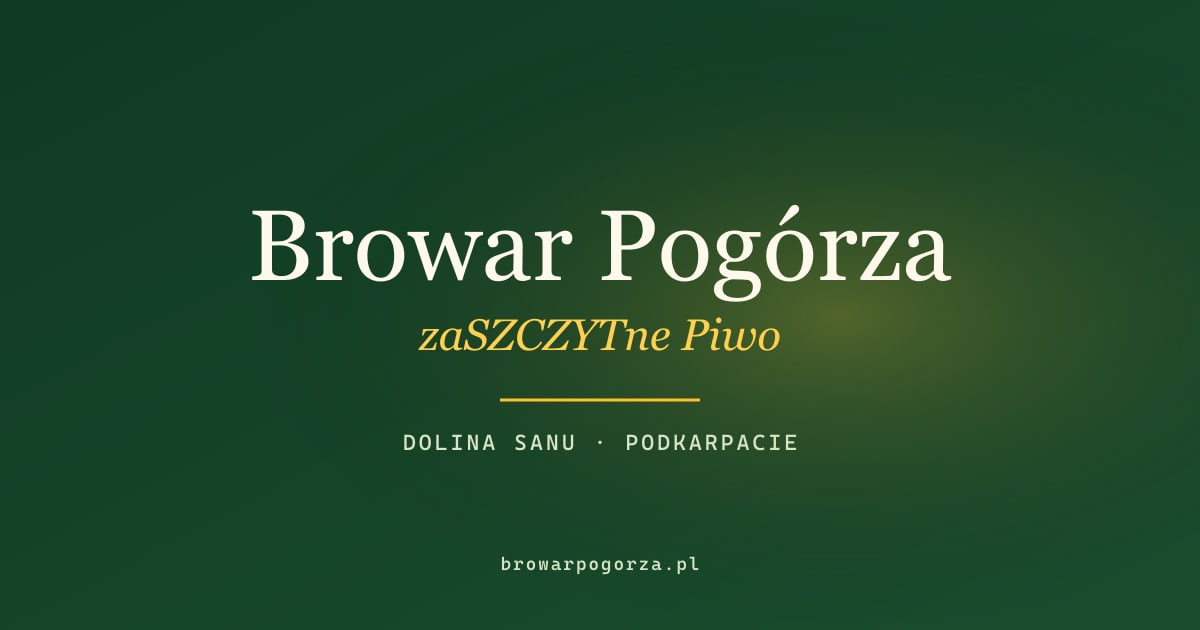
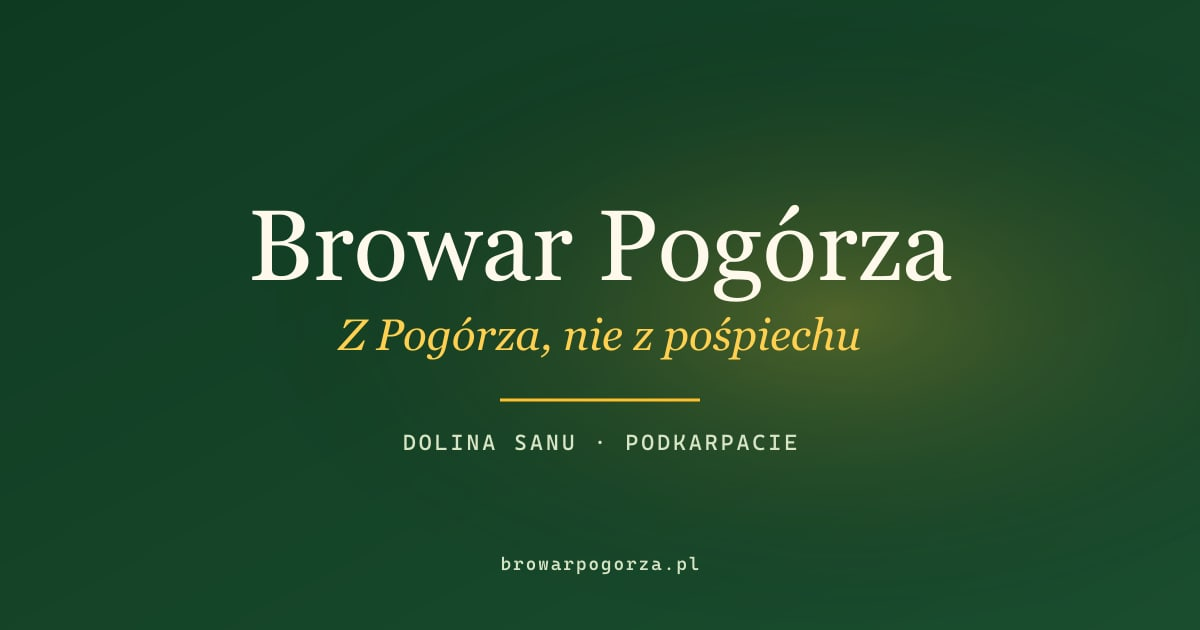
Replace tagline with 'Z Pogorza, nie z pospiechu'

Changed region(s): [[0.2775, 0.4825, 0.74, 0.573]]

diff --git a/index.html b/index.html
@@ -20,7 +20,7 @@
         gtag('config', 'G-BE132JG40J');
     </script>
 
-    <title>Browar Pogórza – zaSZCZYTne Piwo z doliny Sanu | Podkarpacie</title>
+    <title>Browar Pogórza – Z Pogórza, nie z pośpiechu | Podkarpacie</title>
     <meta name="description" content="Rzemieślniczy browar z Pogórza Dynowsko-Przemyskiego — naturalne piwa z polskich składników. Hills Pils, Wheat Valley, Dark Sky, Coffee Fes.">
     <meta name="robots" content="index, follow, max-snippet:-1, max-image-preview:large, max-video-preview:-1">
     <meta name="googlebot" content="index, follow">
@@ -38,7 +38,7 @@
     <!-- Open Graph + Twitter -->
     <meta property="og:site_name" content="Browar Pogórza">
     <meta property="og:locale" content="pl_PL">
-    <meta property="og:title" content="Browar Pogórza – zaSZCZYTne Piwo">
+    <meta property="og:title" content="Browar Pogórza – Z Pogórza, nie z pośpiechu">
     <meta property="og:description" content="Lokalny browar rzemieślniczy z doliny Sanu. Naturalne składniki, tradycyjne metody, soczyste piwa.">
     <meta property="og:type" content="website">
     <meta property="og:url" content="https://browarpogorza.pl/">
@@ -46,7 +46,7 @@
     <meta property="og:image:width" content="1200">
     <meta property="og:image:height" content="630">
     <meta name="twitter:card" content="summary_large_image">
-    <meta name="twitter:title" content="Browar Pogórza – zaSZCZYTne Piwo">
+    <meta name="twitter:title" content="Browar Pogórza – Z Pogórza, nie z pośpiechu">
     <meta name="twitter:description" content="Lokalny browar rzemieślniczy z doliny Sanu.">
     <meta name="twitter:image" content="https://browarpogorza.pl/images/og/og-default.jpg">
 
@@ -148,7 +148,7 @@
     <div class="container hero__content">
         <div class="hero__mark">Pogórze Dynowsko-Przemyskie · Dolina Sanu</div>
         <h1 class="hero__title">Browar Pogórza</h1>
-        <p class="hero__tagline">zaSZCZYTne Piwo</p>
+        <p class="hero__tagline">Z Pogórza, nie z pośpiechu</p>
         <p class="hero__lead">Tworzymy piwa inspirowane przyrodą Pogórza. Tworzymy rzemieślnicze receptury z najlepszych składników, czerpiąc z klimatu i krajobrazu Pogórza. Łączymy tradycyjne metody warzenia z nowoczesnym charakterem - dla pełnego, wyrazistego smaku.</p>
         <div class="hero__actions">
             <a href="#piwa" class="btn btn--sun">Nasze piwa</a>
@@ -504,7 +504,7 @@
                 <span class="footer__logo"><img src="images/logo-black.png" alt="Browar Pogórza"></span>
                 <span class="footer__brand-text">Browar Pogórza</span>
             </div>
-            <p class="footer__tag">zaSZCZYTne Piwo z doliny Sanu</p>
+            <p class="footer__tag">Z Pogórza, nie z pośpiechu</p>
             <div class="social" aria-label="Media społecznościowe">
                 <a href="https://www.facebook.com/browpogorza" target="_blank" rel="noopener noreferrer" aria-label="Facebook">
                     <svg viewBox="0 0 24 24"><path d="M22 12a10 10 0 1 0-11.6 9.9V14.9H8V12h2.4V9.8c0-2.4 1.4-3.7 3.6-3.7 1 0 2.1.2 2.1.2v2.3h-1.2c-1.2 0-1.5.7-1.5 1.5V12h2.6l-.4 2.9h-2.2v7A10 10 0 0 0 22 12z"/></svg>

diff --git a/piwa/beerba.html b/piwa/beerba.html
@@ -278,7 +278,7 @@
                 <span class="footer__logo"><img width="2166" height="2166" src="/images/logo-black.png" alt="Browar Pogórza"></span>
                 <span class="footer__brand-text">Browar Pogórza</span>
             </div>
-            <p class="footer__tag">zaSZCZYTne Piwo z doliny Sanu</p>
+            <p class="footer__tag">Z Pogórza, nie z pośpiechu</p>
             <div class="social" aria-label="Media społecznościowe">
                 <a href="https://www.facebook.com/browpogorza" target="_blank" rel="noopener noreferrer" aria-label="Facebook"><svg viewBox="0 0 24 24"><path d="M22 12a10 10 0 1 0-11.6 9.9V14.9H8V12h2.4V9.8c0-2.4 1.4-3.7 3.6-3.7 1 0 2.1.2 2.1.2v2.3h-1.2c-1.2 0-1.5.7-1.5 1.5V12h2.6l-.4 2.9h-2.2v7A10 10 0 0 0 22 12z"/></svg></a>
                 <a href="https://www.instagram.com/browarpogorza" target="_blank" rel="noopener noreferrer" aria-label="Instagram"><svg viewBox="0 0 24 24"><path d="M12 2.2c3.2 0 3.6 0 4.8.1 1.2.1 1.9.2 2.3.4.6.2 1 .5 1.5 1s.8.9 1 1.5c.2.4.3 1.1.4 2.3.1 1.2.1 1.6.1 4.8s0 3.6-.1 4.8c-.1 1.2-.2 1.9-.4 2.3-.2.6-.5 1-1 1.5s-.9.8-1.5 1c-.4.2-1.1.3-2.3.4-1.2.1-1.6.1-4.8.1s-3.6 0-4.8-.1c-1.2-.1-1.9-.2-2.3-.4-.6-.2-1-.5-1.5-1s-.8-.9-1-1.5c-.2-.4-.3-1.1-.4-2.3C2.2 15.6 2.2 15.2 2.2 12s0-3.6.1-4.8c.1-1.2.2-1.9.4-2.3.2-.6.5-1 1-1.5s.9-.8 1.5-1c.4-.2 1.1-.3 2.3-.4C8.4 2.2 8.8 2.2 12 2.2zm0 2c-3.2 0-3.5 0-4.7.1-1.1.1-1.7.2-2 .4-.5.2-.9.4-1.3.8s-.6.8-.8 1.3c-.2.3-.3.9-.4 2-.1 1.2-.1 1.5-.1 4.7s0 3.5.1 4.7c.1 1.1.2 1.7.4 2 .2.5.4.9.8 1.3s.8.6 1.3.8c.3.2.9.3 2 .4 1.2.1 1.5.1 4.7.1s3.5 0 4.7-.1c1.1-.1 1.7-.2 2-.4.5-.2.9-.4 1.3-.8s.6-.8.8-1.3c.2-.3.3-.9.4-2 .1-1.2.1-1.5.1-4.7s0-3.5-.1-4.7c-.1-1.1-.2-1.7-.4-2-.2-.5-.4-.9-.8-1.3s-.8-.6-1.3-.8c-.3-.2-.9-.3-2-.4-1.2-.1-1.5-.1-4.7-.1zm0 3.4a4.4 4.4 0 1 1 0 8.8 4.4 4.4 0 0 1 0-8.8zm0 7.2a2.8 2.8 0 1 0 0-5.6 2.8 2.8 0 0 0 0 5.6zm5.6-7.4a1 1 0 1 1-2 0 1 1 0 0 1 2 0z"/></svg></a>

diff --git a/piwa/blue-sky.html b/piwa/blue-sky.html
@@ -278,7 +278,7 @@
                 <span class="footer__logo"><img width="2166" height="2166" src="/images/logo-black.png" alt="Browar Pogórza"></span>
                 <span class="footer__brand-text">Browar Pogórza</span>
             </div>
-            <p class="footer__tag">zaSZCZYTne Piwo z doliny Sanu</p>
+            <p class="footer__tag">Z Pogórza, nie z pośpiechu</p>
             <div class="social" aria-label="Media społecznościowe">
                 <a href="https://www.facebook.com/browpogorza" target="_blank" rel="noopener noreferrer" aria-label="Facebook"><svg viewBox="0 0 24 24"><path d="M22 12a10 10 0 1 0-11.6 9.9V14.9H8V12h2.4V9.8c0-2.4 1.4-3.7 3.6-3.7 1 0 2.1.2 2.1.2v2.3h-1.2c-1.2 0-1.5.7-1.5 1.5V12h2.6l-.4 2.9h-2.2v7A10 10 0 0 0 22 12z"/></svg></a>
                 <a href="https://www.instagram.com/browarpogorza" target="_blank" rel="noopener noreferrer" aria-label="Instagram"><svg viewBox="0 0 24 24"><path d="M12 2.2c3.2 0 3.6 0 4.8.1 1.2.1 1.9.2 2.3.4.6.2 1 .5 1.5 1s.8.9 1 1.5c.2.4.3 1.1.4 2.3.1 1.2.1 1.6.1 4.8s0 3.6-.1 4.8c-.1 1.2-.2 1.9-.4 2.3-.2.6-.5 1-1 1.5s-.9.8-1.5 1c-.4.2-1.1.3-2.3.4-1.2.1-1.6.1-4.8.1s-3.6 0-4.8-.1c-1.2-.1-1.9-.2-2.3-.4-.6-.2-1-.5-1.5-1s-.8-.9-1-1.5c-.2-.4-.3-1.1-.4-2.3C2.2 15.6 2.2 15.2 2.2 12s0-3.6.1-4.8c.1-1.2.2-1.9.4-2.3.2-.6.5-1 1-1.5s.9-.8 1.5-1c.4-.2 1.1-.3 2.3-.4C8.4 2.2 8.8 2.2 12 2.2zm0 2c-3.2 0-3.5 0-4.7.1-1.1.1-1.7.2-2 .4-.5.2-.9.4-1.3.8s-.6.8-.8 1.3c-.2.3-.3.9-.4 2-.1 1.2-.1 1.5-.1 4.7s0 3.5.1 4.7c.1 1.1.2 1.7.4 2 .2.5.4.9.8 1.3s.8.6 1.3.8c.3.2.9.3 2 .4 1.2.1 1.5.1 4.7.1s3.5 0 4.7-.1c1.1-.1 1.7-.2 2-.4.5-.2.9-.4 1.3-.8s.6-.8.8-1.3c.2-.3.3-.9.4-2 .1-1.2.1-1.5.1-4.7s0-3.5-.1-4.7c-.1-1.1-.2-1.7-.4-2-.2-.5-.4-.9-.8-1.3s-.8-.6-1.3-.8c-.3-.2-.9-.3-2-.4-1.2-.1-1.5-.1-4.7-.1zm0 3.4a4.4 4.4 0 1 1 0 8.8 4.4 4.4 0 0 1 0-8.8zm0 7.2a2.8 2.8 0 1 0 0-5.6 2.8 2.8 0 0 0 0 5.6zm5.6-7.4a1 1 0 1 1-2 0 1 1 0 0 1 2 0z"/></svg></a>

diff --git a/piwa/coffee-fes.html b/piwa/coffee-fes.html
@@ -291,7 +291,7 @@
                 <span class="footer__logo"><img width="2166" height="2166" src="/images/logo-black.png" alt="Browar Pogórza"></span>
                 <span class="footer__brand-text">Browar Pogórza</span>
             </div>
-            <p class="footer__tag">zaSZCZYTne Piwo z doliny Sanu</p>
+            <p class="footer__tag">Z Pogórza, nie z pośpiechu</p>
             <div class="social" aria-label="Media społecznościowe">
                 <a href="https://www.facebook.com/browpogorza" target="_blank" rel="noopener noreferrer" aria-label="Facebook"><svg viewBox="0 0 24 24"><path d="M22 12a10 10 0 1 0-11.6 9.9V14.9H8V12h2.4V9.8c0-2.4 1.4-3.7 3.6-3.7 1 0 2.1.2 2.1.2v2.3h-1.2c-1.2 0-1.5.7-1.5 1.5V12h2.6l-.4 2.9h-2.2v7A10 10 0 0 0 22 12z"/></svg></a>
                 <a href="https://www.instagram.com/browarpogorza" target="_blank" rel="noopener noreferrer" aria-label="Instagram"><svg viewBox="0 0 24 24"><path d="M12 2.2c3.2 0 3.6 0 4.8.1 1.2.1 1.9.2 2.3.4.6.2 1 .5 1.5 1s.8.9 1 1.5c.2.4.3 1.1.4 2.3.1 1.2.1 1.6.1 4.8s0 3.6-.1 4.8c-.1 1.2-.2 1.9-.4 2.3-.2.6-.5 1-1 1.5s-.9.8-1.5 1c-.4.2-1.1.3-2.3.4-1.2.1-1.6.1-4.8.1s-3.6 0-4.8-.1c-1.2-.1-1.9-.2-2.3-.4-.6-.2-1-.5-1.5-1s-.8-.9-1-1.5c-.2-.4-.3-1.1-.4-2.3C2.2 15.6 2.2 15.2 2.2 12s0-3.6.1-4.8c.1-1.2.2-1.9.4-2.3.2-.6.5-1 1-1.5s.9-.8 1.5-1c.4-.2 1.1-.3 2.3-.4C8.4 2.2 8.8 2.2 12 2.2zm0 2c-3.2 0-3.5 0-4.7.1-1.1.1-1.7.2-2 .4-.5.2-.9.4-1.3.8s-.6.8-.8 1.3c-.2.3-.3.9-.4 2-.1 1.2-.1 1.5-.1 4.7s0 3.5.1 4.7c.1 1.1.2 1.7.4 2 .2.5.4.9.8 1.3s.8.6 1.3.8c.3.2.9.3 2 .4 1.2.1 1.5.1 4.7.1s3.5 0 4.7-.1c1.1-.1 1.7-.2 2-.4.5-.2.9-.4 1.3-.8s.6-.8.8-1.3c.2-.3.3-.9.4-2 .1-1.2.1-1.5.1-4.7s0-3.5-.1-4.7c-.1-1.1-.2-1.7-.4-2-.2-.5-.4-.9-.8-1.3s-.8-.6-1.3-.8c-.3-.2-.9-.3-2-.4-1.2-.1-1.5-.1-4.7-.1zm0 3.4a4.4 4.4 0 1 1 0 8.8 4.4 4.4 0 0 1 0-8.8zm0 7.2a2.8 2.8 0 1 0 0-5.6 2.8 2.8 0 0 0 0 5.6zm5.6-7.4a1 1 0 1 1-2 0 1 1 0 0 1 2 0z"/></svg></a>

diff --git a/piwa/dark-sky-coconut-coffee.html b/piwa/dark-sky-coconut-coffee.html
@@ -278,7 +278,7 @@
                 <span class="footer__logo"><img width="2166" height="2166" src="/images/logo-black.png" alt="Browar Pogórza"></span>
                 <span class="footer__brand-text">Browar Pogórza</span>
             </div>
-            <p class="footer__tag">zaSZCZYTne Piwo z doliny Sanu</p>
+            <p class="footer__tag">Z Pogórza, nie z pośpiechu</p>
             <div class="social" aria-label="Media społecznościowe">
                 <a href="https://www.facebook.com/browpogorza" target="_blank" rel="noopener noreferrer" aria-label="Facebook"><svg viewBox="0 0 24 24"><path d="M22 12a10 10 0 1 0-11.6 9.9V14.9H8V12h2.4V9.8c0-2.4 1.4-3.7 3.6-3.7 1 0 2.1.2 2.1.2v2.3h-1.2c-1.2 0-1.5.7-1.5 1.5V12h2.6l-.4 2.9h-2.2v7A10 10 0 0 0 22 12z"/></svg></a>
                 <a href="https://www.instagram.com/browarpogorza" target="_blank" rel="noopener noreferrer" aria-label="Instagram"><svg viewBox="0 0 24 24"><path d="M12 2.2c3.2 0 3.6 0 4.8.1 1.2.1 1.9.2 2.3.4.6.2 1 .5 1.5 1s.8.9 1 1.5c.2.4.3 1.1.4 2.3.1 1.2.1 1.6.1 4.8s0 3.6-.1 4.8c-.1 1.2-.2 1.9-.4 2.3-.2.6-.5 1-1 1.5s-.9.8-1.5 1c-.4.2-1.1.3-2.3.4-1.2.1-1.6.1-4.8.1s-3.6 0-4.8-.1c-1.2-.1-1.9-.2-2.3-.4-.6-.2-1-.5-1.5-1s-.8-.9-1-1.5c-.2-.4-.3-1.1-.4-2.3C2.2 15.6 2.2 15.2 2.2 12s0-3.6.1-4.8c.1-1.2.2-1.9.4-2.3.2-.6.5-1 1-1.5s.9-.8 1.5-1c.4-.2 1.1-.3 2.3-.4C8.4 2.2 8.8 2.2 12 2.2zm0 2c-3.2 0-3.5 0-4.7.1-1.1.1-1.7.2-2 .4-.5.2-.9.4-1.3.8s-.6.8-.8 1.3c-.2.3-.3.9-.4 2-.1 1.2-.1 1.5-.1 4.7s0 3.5.1 4.7c.1 1.1.2 1.7.4 2 .2.5.4.9.8 1.3s.8.6 1.3.8c.3.2.9.3 2 .4 1.2.1 1.5.1 4.7.1s3.5 0 4.7-.1c1.1-.1 1.7-.2 2-.4.5-.2.9-.4 1.3-.8s.6-.8.8-1.3c.2-.3.3-.9.4-2 .1-1.2.1-1.5.1-4.7s0-3.5-.1-4.7c-.1-1.1-.2-1.7-.4-2-.2-.5-.4-.9-.8-1.3s-.8-.6-1.3-.8c-.3-.2-.9-.3-2-.4-1.2-.1-1.5-.1-4.7-.1zm0 3.4a4.4 4.4 0 1 1 0 8.8 4.4 4.4 0 0 1 0-8.8zm0 7.2a2.8 2.8 0 1 0 0-5.6 2.8 2.8 0 0 0 0 5.6zm5.6-7.4a1 1 0 1 1-2 0 1 1 0 0 1 2 0z"/></svg></a>

diff --git a/piwa/dark-sky.html b/piwa/dark-sky.html
@@ -278,7 +278,7 @@
                 <span class="footer__logo"><img width="2166" height="2166" src="/images/logo-black.png" alt="Browar Pogórza"></span>
                 <span class="footer__brand-text">Browar Pogórza</span>
             </div>
-            <p class="footer__tag">zaSZCZYTne Piwo z doliny Sanu</p>
+            <p class="footer__tag">Z Pogórza, nie z pośpiechu</p>
             <div class="social" aria-label="Media społecznościowe">
                 <a href="https://www.facebook.com/browpogorza" target="_blank" rel="noopener noreferrer" aria-label="Facebook"><svg viewBox="0 0 24 24"><path d="M22 12a10 10 0 1 0-11.6 9.9V14.9H8V12h2.4V9.8c0-2.4 1.4-3.7 3.6-3.7 1 0 2.1.2 2.1.2v2.3h-1.2c-1.2 0-1.5.7-1.5 1.5V12h2.6l-.4 2.9h-2.2v7A10 10 0 0 0 22 12z"/></svg></a>
                 <a href="https://www.instagram.com/browarpogorza" target="_blank" rel="noopener noreferrer" aria-label="Instagram"><svg viewBox="0 0 24 24"><path d="M12 2.2c3.2 0 3.6 0 4.8.1 1.2.1 1.9.2 2.3.4.6.2 1 .5 1.5 1s.8.9 1 1.5c.2.4.3 1.1.4 2.3.1 1.2.1 1.6.1 4.8s0 3.6-.1 4.8c-.1 1.2-.2 1.9-.4 2.3-.2.6-.5 1-1 1.5s-.9.8-1.5 1c-.4.2-1.1.3-2.3.4-1.2.1-1.6.1-4.8.1s-3.6 0-4.8-.1c-1.2-.1-1.9-.2-2.3-.4-.6-.2-1-.5-1.5-1s-.8-.9-1-1.5c-.2-.4-.3-1.1-.4-2.3C2.2 15.6 2.2 15.2 2.2 12s0-3.6.1-4.8c.1-1.2.2-1.9.4-2.3.2-.6.5-1 1-1.5s.9-.8 1.5-1c.4-.2 1.1-.3 2.3-.4C8.4 2.2 8.8 2.2 12 2.2zm0 2c-3.2 0-3.5 0-4.7.1-1.1.1-1.7.2-2 .4-.5.2-.9.4-1.3.8s-.6.8-.8 1.3c-.2.3-.3.9-.4 2-.1 1.2-.1 1.5-.1 4.7s0 3.5.1 4.7c.1 1.1.2 1.7.4 2 .2.5.4.9.8 1.3s.8.6 1.3.8c.3.2.9.3 2 .4 1.2.1 1.5.1 4.7.1s3.5 0 4.7-.1c1.1-.1 1.7-.2 2-.4.5-.2.9-.4 1.3-.8s.6-.8.8-1.3c.2-.3.3-.9.4-2 .1-1.2.1-1.5.1-4.7s0-3.5-.1-4.7c-.1-1.1-.2-1.7-.4-2-.2-.5-.4-.9-.8-1.3s-.8-.6-1.3-.8c-.3-.2-.9-.3-2-.4-1.2-.1-1.5-.1-4.7-.1zm0 3.4a4.4 4.4 0 1 1 0 8.8 4.4 4.4 0 0 1 0-8.8zm0 7.2a2.8 2.8 0 1 0 0-5.6 2.8 2.8 0 0 0 0 5.6zm5.6-7.4a1 1 0 1 1-2 0 1 1 0 0 1 2 0z"/></svg></a>

diff --git a/piwa/green-hills.html b/piwa/green-hills.html
@@ -278,7 +278,7 @@
                 <span class="footer__logo"><img width="2166" height="2166" src="/images/logo-black.png" alt="Browar Pogórza"></span>
                 <span class="footer__brand-text">Browar Pogórza</span>
             </div>
-            <p class="footer__tag">zaSZCZYTne Piwo z doliny Sanu</p>
+            <p class="footer__tag">Z Pogórza, nie z pośpiechu</p>
             <div class="social" aria-label="Media społecznościowe">
                 <a href="https://www.facebook.com/browpogorza" target="_blank" rel="noopener noreferrer" aria-label="Facebook"><svg viewBox="0 0 24 24"><path d="M22 12a10 10 0 1 0-11.6 9.9V14.9H8V12h2.4V9.8c0-2.4 1.4-3.7 3.6-3.7 1 0 2.1.2 2.1.2v2.3h-1.2c-1.2 0-1.5.7-1.5 1.5V12h2.6l-.4 2.9h-2.2v7A10 10 0 0 0 22 12z"/></svg></a>
                 <a href="https://www.instagram.com/browarpogorza" target="_blank" rel="noopener noreferrer" aria-label="Instagram"><svg viewBox="0 0 24 24"><path d="M12 2.2c3.2 0 3.6 0 4.8.1 1.2.1 1.9.2 2.3.4.6.2 1 .5 1.5 1s.8.9 1 1.5c.2.4.3 1.1.4 2.3.1 1.2.1 1.6.1 4.8s0 3.6-.1 4.8c-.1 1.2-.2 1.9-.4 2.3-.2.6-.5 1-1 1.5s-.9.8-1.5 1c-.4.2-1.1.3-2.3.4-1.2.1-1.6.1-4.8.1s-3.6 0-4.8-.1c-1.2-.1-1.9-.2-2.3-.4-.6-.2-1-.5-1.5-1s-.8-.9-1-1.5c-.2-.4-.3-1.1-.4-2.3C2.2 15.6 2.2 15.2 2.2 12s0-3.6.1-4.8c.1-1.2.2-1.9.4-2.3.2-.6.5-1 1-1.5s.9-.8 1.5-1c.4-.2 1.1-.3 2.3-.4C8.4 2.2 8.8 2.2 12 2.2zm0 2c-3.2 0-3.5 0-4.7.1-1.1.1-1.7.2-2 .4-.5.2-.9.4-1.3.8s-.6.8-.8 1.3c-.2.3-.3.9-.4 2-.1 1.2-.1 1.5-.1 4.7s0 3.5.1 4.7c.1 1.1.2 1.7.4 2 .2.5.4.9.8 1.3s.8.6 1.3.8c.3.2.9.3 2 .4 1.2.1 1.5.1 4.7.1s3.5 0 4.7-.1c1.1-.1 1.7-.2 2-.4.5-.2.9-.4 1.3-.8s.6-.8.8-1.3c.2-.3.3-.9.4-2 .1-1.2.1-1.5.1-4.7s0-3.5-.1-4.7c-.1-1.1-.2-1.7-.4-2-.2-.5-.4-.9-.8-1.3s-.8-.6-1.3-.8c-.3-.2-.9-.3-2-.4-1.2-.1-1.5-.1-4.7-.1zm0 3.4a4.4 4.4 0 1 1 0 8.8 4.4 4.4 0 0 1 0-8.8zm0 7.2a2.8 2.8 0 1 0 0-5.6 2.8 2.8 0 0 0 0 5.6zm5.6-7.4a1 1 0 1 1-2 0 1 1 0 0 1 2 0z"/></svg></a>

diff --git a/piwa/herb-apa.html b/piwa/herb-apa.html
@@ -278,7 +278,7 @@
                 <span class="footer__logo"><img width="2166" height="2166" src="/images/logo-black.png" alt="Browar Pogórza"></span>
                 <span class="footer__brand-text">Browar Pogórza</span>
             </div>
-            <p class="footer__tag">zaSZCZYTne Piwo z doliny Sanu</p>
+            <p class="footer__tag">Z Pogórza, nie z pośpiechu</p>
             <div class="social" aria-label="Media społecznościowe">
                 <a href="https://www.facebook.com/browpogorza" target="_blank" rel="noopener noreferrer" aria-label="Facebook"><svg viewBox="0 0 24 24"><path d="M22 12a10 10 0 1 0-11.6 9.9V14.9H8V12h2.4V9.8c0-2.4 1.4-3.7 3.6-3.7 1 0 2.1.2 2.1.2v2.3h-1.2c-1.2 0-1.5.7-1.5 1.5V12h2.6l-.4 2.9h-2.2v7A10 10 0 0 0 22 12z"/></svg></a>
                 <a href="https://www.instagram.com/browarpogorza" target="_blank" rel="noopener noreferrer" aria-label="Instagram"><svg viewBox="0 0 24 24"><path d="M12 2.2c3.2 0 3.6 0 4.8.1 1.2.1 1.9.2 2.3.4.6.2 1 .5 1.5 1s.8.9 1 1.5c.2.4.3 1.1.4 2.3.1 1.2.1 1.6.1 4.8s0 3.6-.1 4.8c-.1 1.2-.2 1.9-.4 2.3-.2.6-.5 1-1 1.5s-.9.8-1.5 1c-.4.2-1.1.3-2.3.4-1.2.1-1.6.1-4.8.1s-3.6 0-4.8-.1c-1.2-.1-1.9-.2-2.3-.4-.6-.2-1-.5-1.5-1s-.8-.9-1-1.5c-.2-.4-.3-1.1-.4-2.3C2.2 15.6 2.2 15.2 2.2 12s0-3.6.1-4.8c.1-1.2.2-1.9.4-2.3.2-.6.5-1 1-1.5s.9-.8 1.5-1c.4-.2 1.1-.3 2.3-.4C8.4 2.2 8.8 2.2 12 2.2zm0 2c-3.2 0-3.5 0-4.7.1-1.1.1-1.7.2-2 .4-.5.2-.9.4-1.3.8s-.6.8-.8 1.3c-.2.3-.3.9-.4 2-.1 1.2-.1 1.5-.1 4.7s0 3.5.1 4.7c.1 1.1.2 1.7.4 2 .2.5.4.9.8 1.3s.8.6 1.3.8c.3.2.9.3 2 .4 1.2.1 1.5.1 4.7.1s3.5 0 4.7-.1c1.1-.1 1.7-.2 2-.4.5-.2.9-.4 1.3-.8s.6-.8.8-1.3c.2-.3.3-.9.4-2 .1-1.2.1-1.5.1-4.7s0-3.5-.1-4.7c-.1-1.1-.2-1.7-.4-2-.2-.5-.4-.9-.8-1.3s-.8-.6-1.3-.8c-.3-.2-.9-.3-2-.4-1.2-.1-1.5-.1-4.7-.1zm0 3.4a4.4 4.4 0 1 1 0 8.8 4.4 4.4 0 0 1 0-8.8zm0 7.2a2.8 2.8 0 1 0 0-5.6 2.8 2.8 0 0 0 0 5.6zm5.6-7.4a1 1 0 1 1-2 0 1 1 0 0 1 2 0z"/></svg></a>

diff --git a/piwa/hills-pils.html b/piwa/hills-pils.html
@@ -278,7 +278,7 @@
                 <span class="footer__logo"><img width="2166" height="2166" src="/images/logo-black.png" alt="Browar Pogórza"></span>
                 <span class="footer__brand-text">Browar Pogórza</span>
             </div>
-            <p class="footer__tag">zaSZCZYTne Piwo z doliny Sanu</p>
+            <p class="footer__tag">Z Pogórza, nie z pośpiechu</p>
             <div class="social" aria-label="Media społecznościowe">
                 <a href="https://www.facebook.com/browpogorza" target="_blank" rel="noopener noreferrer" aria-label="Facebook"><svg viewBox="0 0 24 24"><path d="M22 12a10 10 0 1 0-11.6 9.9V14.9H8V12h2.4V9.8c0-2.4 1.4-3.7 3.6-3.7 1 0 2.1.2 2.1.2v2.3h-1.2c-1.2 0-1.5.7-1.5 1.5V12h2.6l-.4 2.9h-2.2v7A10 10 0 0 0 22 12z"/></svg></a>
                 <a href="https://www.instagram.com/browarpogorza" target="_blank" rel="noopener noreferrer" aria-label="Instagram"><svg viewBox="0 0 24 24"><path d="M12 2.2c3.2 0 3.6 0 4.8.1 1.2.1 1.9.2 2.3.4.6.2 1 .5 1.5 1s.8.9 1 1.5c.2.4.3 1.1.4 2.3.1 1.2.1 1.6.1 4.8s0 3.6-.1 4.8c-.1 1.2-.2 1.9-.4 2.3-.2.6-.5 1-1 1.5s-.9.8-1.5 1c-.4.2-1.1.3-2.3.4-1.2.1-1.6.1-4.8.1s-3.6 0-4.8-.1c-1.2-.1-1.9-.2-2.3-.4-.6-.2-1-.5-1.5-1s-.8-.9-1-1.5c-.2-.4-.3-1.1-.4-2.3C2.2 15.6 2.2 15.2 2.2 12s0-3.6.1-4.8c.1-1.2.2-1.9.4-2.3.2-.6.5-1 1-1.5s.9-.8 1.5-1c.4-.2 1.1-.3 2.3-.4C8.4 2.2 8.8 2.2 12 2.2zm0 2c-3.2 0-3.5 0-4.7.1-1.1.1-1.7.2-2 .4-.5.2-.9.4-1.3.8s-.6.8-.8 1.3c-.2.3-.3.9-.4 2-.1 1.2-.1 1.5-.1 4.7s0 3.5.1 4.7c.1 1.1.2 1.7.4 2 .2.5.4.9.8 1.3s.8.6 1.3.8c.3.2.9.3 2 .4 1.2.1 1.5.1 4.7.1s3.5 0 4.7-.1c1.1-.1 1.7-.2 2-.4.5-.2.9-.4 1.3-.8s.6-.8.8-1.3c.2-.3.3-.9.4-2 .1-1.2.1-1.5.1-4.7s0-3.5-.1-4.7c-.1-1.1-.2-1.7-.4-2-.2-.5-.4-.9-.8-1.3s-.8-.6-1.3-.8c-.3-.2-.9-.3-2-.4-1.2-.1-1.5-.1-4.7-.1zm0 3.4a4.4 4.4 0 1 1 0 8.8 4.4 4.4 0 0 1 0-8.8zm0 7.2a2.8 2.8 0 1 0 0-5.6 2.8 2.8 0 0 0 0 5.6zm5.6-7.4a1 1 0 1 1-2 0 1 1 0 0 1 2 0z"/></svg></a>

diff --git a/piwa/podium.html b/piwa/podium.html
@@ -278,7 +278,7 @@
                 <span class="footer__logo"><img width="2166" height="2166" src="/images/logo-black.png" alt="Browar Pogórza"></span>
                 <span class="footer__brand-text">Browar Pogórza</span>
             </div>
-            <p class="footer__tag">zaSZCZYTne Piwo z doliny Sanu</p>
+            <p class="footer__tag">Z Pogórza, nie z pośpiechu</p>
             <div class="social" aria-label="Media społecznościowe">
                 <a href="https://www.facebook.com/browpogorza" target="_blank" rel="noopener noreferrer" aria-label="Facebook"><svg viewBox="0 0 24 24"><path d="M22 12a10 10 0 1 0-11.6 9.9V14.9H8V12h2.4V9.8c0-2.4 1.4-3.7 3.6-3.7 1 0 2.1.2 2.1.2v2.3h-1.2c-1.2 0-1.5.7-1.5 1.5V12h2.6l-.4 2.9h-2.2v7A10 10 0 0 0 22 12z"/></svg></a>
                 <a href="https://www.instagram.com/browarpogorza" target="_blank" rel="noopener noreferrer" aria-label="Instagram"><svg viewBox="0 0 24 24"><path d="M12 2.2c3.2 0 3.6 0 4.8.1 1.2.1 1.9.2 2.3.4.6.2 1 .5 1.5 1s.8.9 1 1.5c.2.4.3 1.1.4 2.3.1 1.2.1 1.6.1 4.8s0 3.6-.1 4.8c-.1 1.2-.2 1.9-.4 2.3-.2.6-.5 1-1 1.5s-.9.8-1.5 1c-.4.2-1.1.3-2.3.4-1.2.1-1.6.1-4.8.1s-3.6 0-4.8-.1c-1.2-.1-1.9-.2-2.3-.4-.6-.2-1-.5-1.5-1s-.8-.9-1-1.5c-.2-.4-.3-1.1-.4-2.3C2.2 15.6 2.2 15.2 2.2 12s0-3.6.1-4.8c.1-1.2.2-1.9.4-2.3.2-.6.5-1 1-1.5s.9-.8 1.5-1c.4-.2 1.1-.3 2.3-.4C8.4 2.2 8.8 2.2 12 2.2zm0 2c-3.2 0-3.5 0-4.7.1-1.1.1-1.7.2-2 .4-.5.2-.9.4-1.3.8s-.6.8-.8 1.3c-.2.3-.3.9-.4 2-.1 1.2-.1 1.5-.1 4.7s0 3.5.1 4.7c.1 1.1.2 1.7.4 2 .2.5.4.9.8 1.3s.8.6 1.3.8c.3.2.9.3 2 .4 1.2.1 1.5.1 4.7.1s3.5 0 4.7-.1c1.1-.1 1.7-.2 2-.4.5-.2.9-.4 1.3-.8s.6-.8.8-1.3c.2-.3.3-.9.4-2 .1-1.2.1-1.5.1-4.7s0-3.5-.1-4.7c-.1-1.1-.2-1.7-.4-2-.2-.5-.4-.9-.8-1.3s-.8-.6-1.3-.8c-.3-.2-.9-.3-2-.4-1.2-.1-1.5-.1-4.7-.1zm0 3.4a4.4 4.4 0 1 1 0 8.8 4.4 4.4 0 0 1 0-8.8zm0 7.2a2.8 2.8 0 1 0 0-5.6 2.8 2.8 0 0 0 0 5.6zm5.6-7.4a1 1 0 1 1-2 0 1 1 0 0 1 2 0z"/></svg></a>

diff --git a/piwa/san-lajt.html b/piwa/san-lajt.html
@@ -278,7 +278,7 @@
                 <span class="footer__logo"><img width="2166" height="2166" src="/images/logo-black.png" alt="Browar Pogórza"></span>
                 <span class="footer__brand-text">Browar Pogórza</span>
             </div>
-            <p class="footer__tag">zaSZCZYTne Piwo z doliny Sanu</p>
+            <p class="footer__tag">Z Pogórza, nie z pośpiechu</p>
             <div class="social" aria-label="Media społecznościowe">
                 <a href="https://www.facebook.com/browpogorza" target="_blank" rel="noopener noreferrer" aria-label="Facebook"><svg viewBox="0 0 24 24"><path d="M22 12a10 10 0 1 0-11.6 9.9V14.9H8V12h2.4V9.8c0-2.4 1.4-3.7 3.6-3.7 1 0 2.1.2 2.1.2v2.3h-1.2c-1.2 0-1.5.7-1.5 1.5V12h2.6l-.4 2.9h-2.2v7A10 10 0 0 0 22 12z"/></svg></a>
                 <a href="https://www.instagram.com/browarpogorza" target="_blank" rel="noopener noreferrer" aria-label="Instagram"><svg viewBox="0 0 24 24"><path d="M12 2.2c3.2 0 3.6 0 4.8.1 1.2.1 1.9.2 2.3.4.6.2 1 .5 1.5 1s.8.9 1 1.5c.2.4.3 1.1.4 2.3.1 1.2.1 1.6.1 4.8s0 3.6-.1 4.8c-.1 1.2-.2 1.9-.4 2.3-.2.6-.5 1-1 1.5s-.9.8-1.5 1c-.4.2-1.1.3-2.3.4-1.2.1-1.6.1-4.8.1s-3.6 0-4.8-.1c-1.2-.1-1.9-.2-2.3-.4-.6-.2-1-.5-1.5-1s-.8-.9-1-1.5c-.2-.4-.3-1.1-.4-2.3C2.2 15.6 2.2 15.2 2.2 12s0-3.6.1-4.8c.1-1.2.2-1.9.4-2.3.2-.6.5-1 1-1.5s.9-.8 1.5-1c.4-.2 1.1-.3 2.3-.4C8.4 2.2 8.8 2.2 12 2.2zm0 2c-3.2 0-3.5 0-4.7.1-1.1.1-1.7.2-2 .4-.5.2-.9.4-1.3.8s-.6.8-.8 1.3c-.2.3-.3.9-.4 2-.1 1.2-.1 1.5-.1 4.7s0 3.5.1 4.7c.1 1.1.2 1.7.4 2 .2.5.4.9.8 1.3s.8.6 1.3.8c.3.2.9.3 2 .4 1.2.1 1.5.1 4.7.1s3.5 0 4.7-.1c1.1-.1 1.7-.2 2-.4.5-.2.9-.4 1.3-.8s.6-.8.8-1.3c.2-.3.3-.9.4-2 .1-1.2.1-1.5.1-4.7s0-3.5-.1-4.7c-.1-1.1-.2-1.7-.4-2-.2-.5-.4-.9-.8-1.3s-.8-.6-1.3-.8c-.3-.2-.9-.3-2-.4-1.2-.1-1.5-.1-4.7-.1zm0 3.4a4.4 4.4 0 1 1 0 8.8 4.4 4.4 0 0 1 0-8.8zm0 7.2a2.8 2.8 0 1 0 0-5.6 2.8 2.8 0 0 0 0 5.6zm5.6-7.4a1 1 0 1 1-2 0 1 1 0 0 1 2 0z"/></svg></a>

diff --git a/piwa/wheat-valley.html b/piwa/wheat-valley.html
@@ -278,7 +278,7 @@
                 <span class="footer__logo"><img width="2166" height="2166" src="/images/logo-black.png" alt="Browar Pogórza"></span>
                 <span class="footer__brand-text">Browar Pogórza</span>
             </div>
-            <p class="footer__tag">zaSZCZYTne Piwo z doliny Sanu</p>
+            <p class="footer__tag">Z Pogórza, nie z pośpiechu</p>
             <div class="social" aria-label="Media społecznościowe">
                 <a href="https://www.facebook.com/browpogorza" target="_blank" rel="noopener noreferrer" aria-label="Facebook"><svg viewBox="0 0 24 24"><path d="M22 12a10 10 0 1 0-11.6 9.9V14.9H8V12h2.4V9.8c0-2.4 1.4-3.7 3.6-3.7 1 0 2.1.2 2.1.2v2.3h-1.2c-1.2 0-1.5.7-1.5 1.5V12h2.6l-.4 2.9h-2.2v7A10 10 0 0 0 22 12z"/></svg></a>
                 <a href="https://www.instagram.com/browarpogorza" target="_blank" rel="noopener noreferrer" aria-label="Instagram"><svg viewBox="0 0 24 24"><path d="M12 2.2c3.2 0 3.6 0 4.8.1 1.2.1 1.9.2 2.3.4.6.2 1 .5 1.5 1s.8.9 1 1.5c.2.4.3 1.1.4 2.3.1 1.2.1 1.6.1 4.8s0 3.6-.1 4.8c-.1 1.2-.2 1.9-.4 2.3-.2.6-.5 1-1 1.5s-.9.8-1.5 1c-.4.2-1.1.3-2.3.4-1.2.1-1.6.1-4.8.1s-3.6 0-4.8-.1c-1.2-.1-1.9-.2-2.3-.4-.6-.2-1-.5-1.5-1s-.8-.9-1-1.5c-.2-.4-.3-1.1-.4-2.3C2.2 15.6 2.2 15.2 2.2 12s0-3.6.1-4.8c.1-1.2.2-1.9.4-2.3.2-.6.5-1 1-1.5s.9-.8 1.5-1c.4-.2 1.1-.3 2.3-.4C8.4 2.2 8.8 2.2 12 2.2zm0 2c-3.2 0-3.5 0-4.7.1-1.1.1-1.7.2-2 .4-.5.2-.9.4-1.3.8s-.6.8-.8 1.3c-.2.3-.3.9-.4 2-.1 1.2-.1 1.5-.1 4.7s0 3.5.1 4.7c.1 1.1.2 1.7.4 2 .2.5.4.9.8 1.3s.8.6 1.3.8c.3.2.9.3 2 .4 1.2.1 1.5.1 4.7.1s3.5 0 4.7-.1c1.1-.1 1.7-.2 2-.4.5-.2.9-.4 1.3-.8s.6-.8.8-1.3c.2-.3.3-.9.4-2 .1-1.2.1-1.5.1-4.7s0-3.5-.1-4.7c-.1-1.1-.2-1.7-.4-2-.2-.5-.4-.9-.8-1.3s-.8-.6-1.3-.8c-.3-.2-.9-.3-2-.4-1.2-.1-1.5-.1-4.7-.1zm0 3.4a4.4 4.4 0 1 1 0 8.8 4.4 4.4 0 0 1 0-8.8zm0 7.2a2.8 2.8 0 1 0 0-5.6 2.8 2.8 0 0 0 0 5.6zm5.6-7.4a1 1 0 1 1-2 0 1 1 0 0 1 2 0z"/></svg></a>
